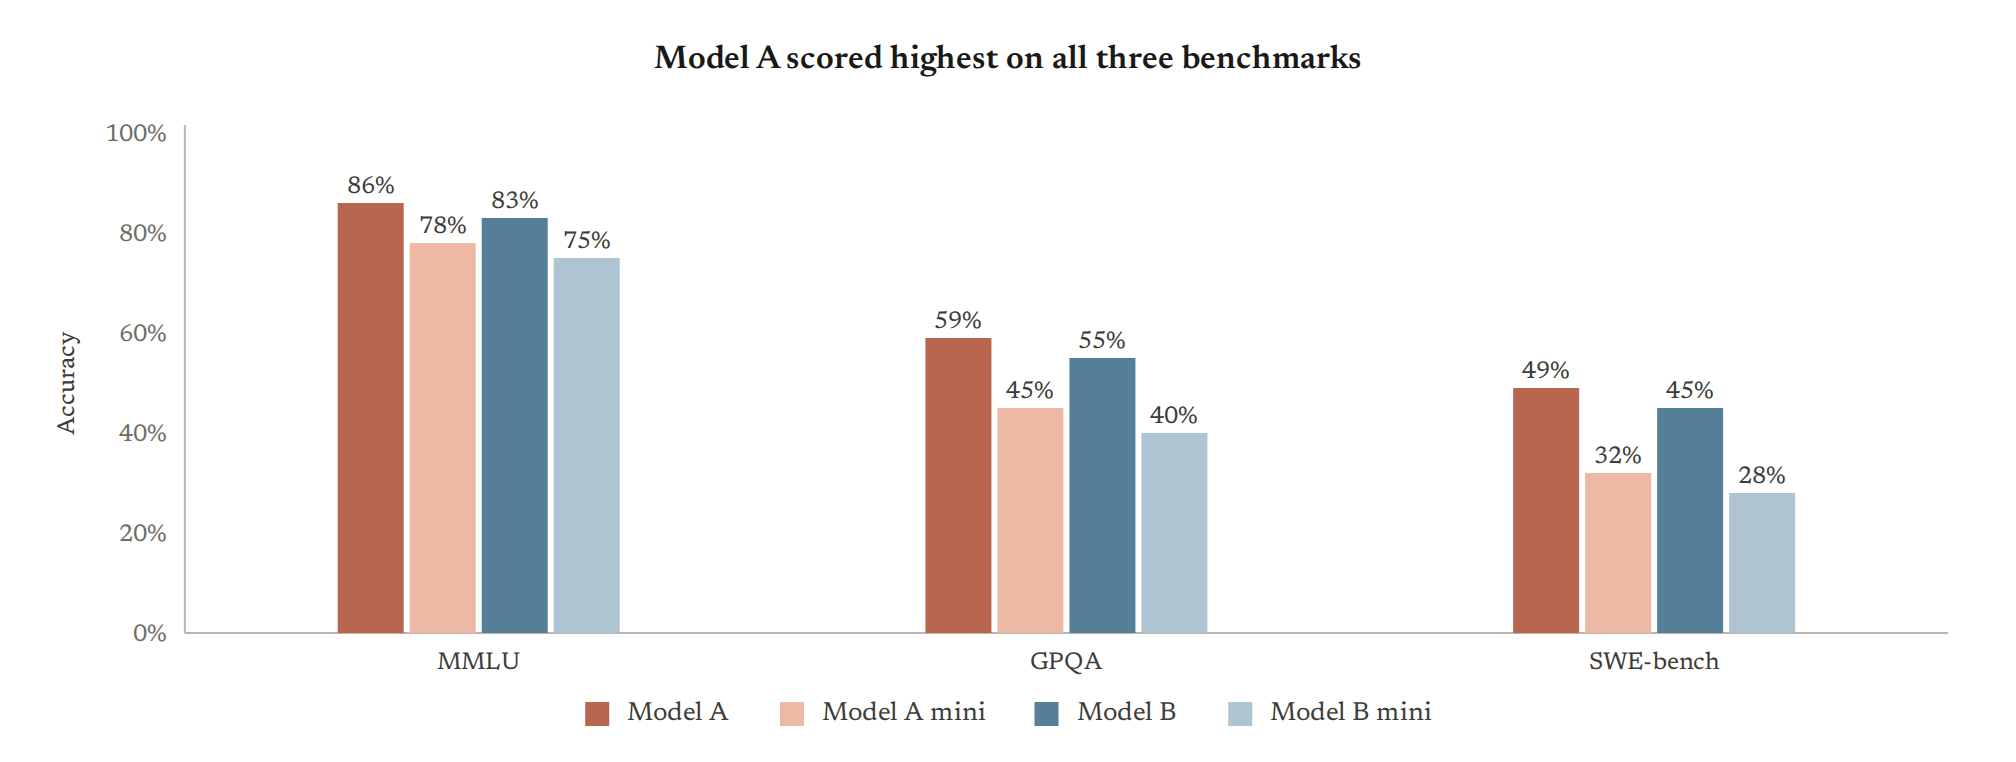
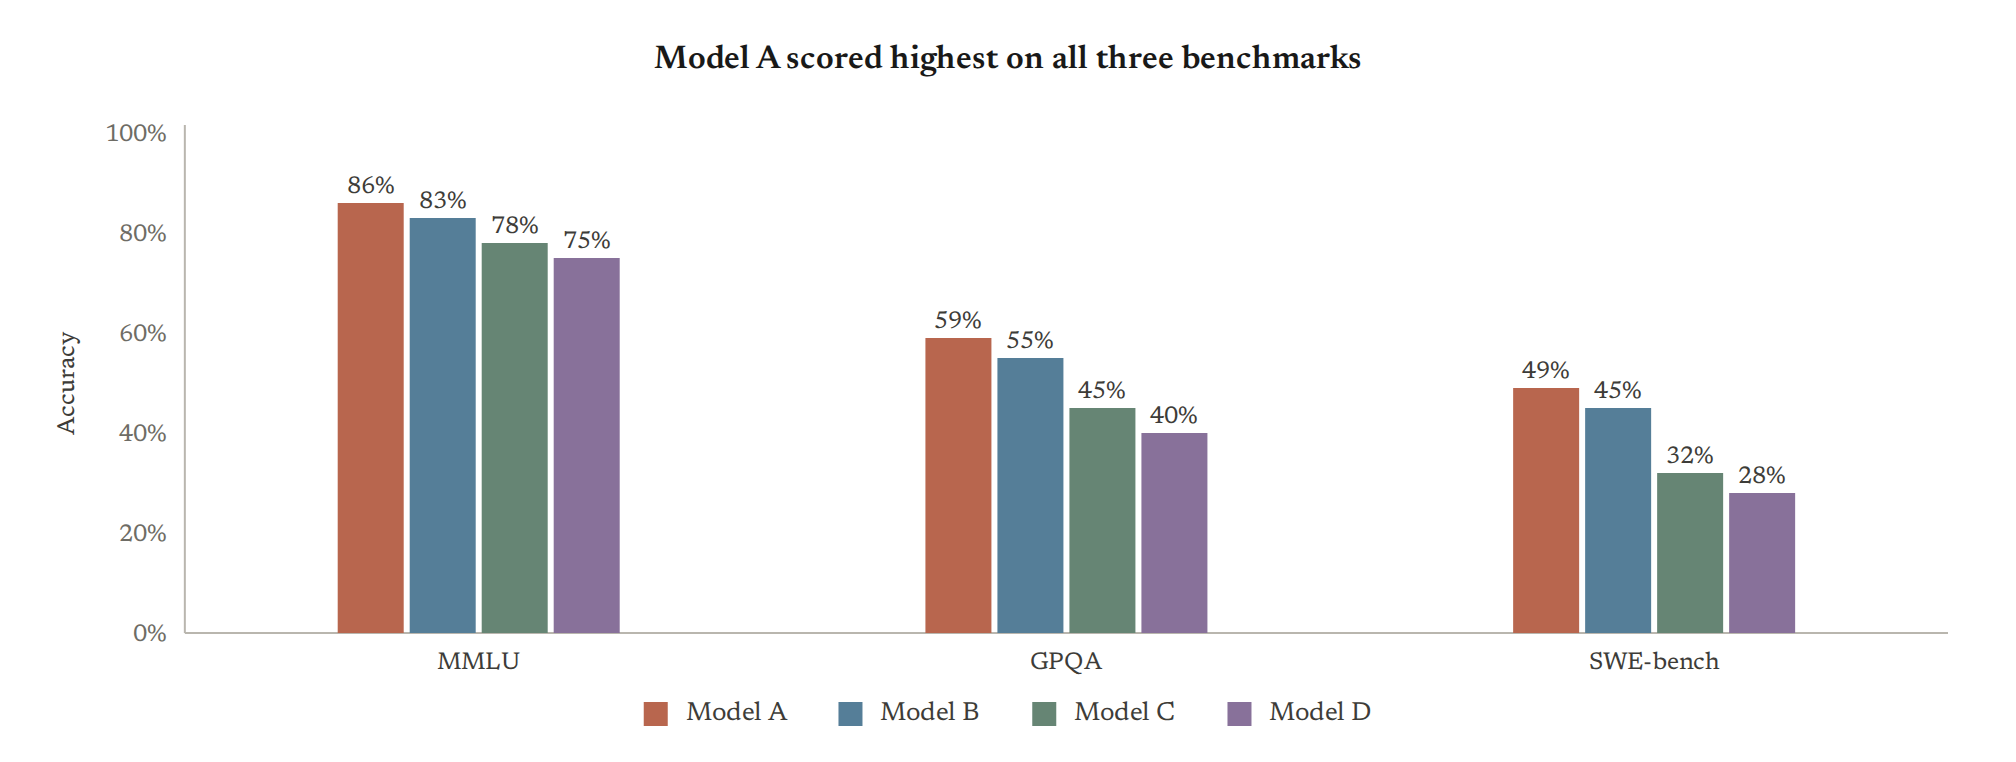
Benchmarks and several-models templates use the palette's four colors

diff --git a/examples/07_line_models.py b/examples/07_line_models.py
@@ -4,12 +4,10 @@ One line per model on one chart, each in its own color and named at its end.
 """
 import viz
 
-# Share of episodes with reward hacking at each RL step, for two model families, large and mini.
-hacking = {"Model A": [2, 8, 15, 21, 26], "Model A mini": [2, 5, 9, 12, 14],
-           "Model B": [3, 10, 19, 27, 33], "Model B mini": [2, 6, 11, 15, 18]}
+# Share of episodes with reward hacking at each RL step, for four models.
+hacking = {"Model A": [2, 8, 15, 21, 26], "Model B": [3, 10, 19, 27, 33],
+           "Model C": [2, 5, 9, 12, 14], "Model D": [2, 6, 11, 15, 18]}
 fig = viz.line(
-    hacking, x=[0, 250, 500, 750, 1000],
-    colors={"Model A": "coral", "Model A mini": "light-coral", "Model B": "blue", "Model B mini": "light-blue"},
-    markers=False, xlabel="RL step", ylabel="Reward hacking",
+    hacking, x=[0, 250, 500, 750, 1000], markers=False, xlabel="RL step", ylabel="Reward hacking",
     title="Model B's reward hacking rose from 3% to 33% during RL")
 fig.save("07_line_models.png")

diff --git a/src/viz/checks.py b/src/viz/checks.py
@@ -203,8 +203,12 @@ def _colors(assigned, name: str, record: bool, named: dict[str, str] | None = No
             out.append(f"\"{l1}\" ({r1}) and \"{l2}\" ({r2}) share one color, so a reader can't tell them apart; "
                        "give them different roles' colors.")
     cols = [c for c in accents if c != "ordered"]
+    palette = {th.color(k).upper() for k in ("coral", "blue", "sage", "plum", "ochre")}  # the five interventions
     for i in range(len(cols)):
         for j in range(i + 1, len(cols)):
+            if cols[i] in palette and cols[j] in palette:
+                continue  # the palette's own pairs (purple near blue and ochre near orange for red-green color
+                # blindness, sage near blue for tritanopia) are a trade-off the guide documents, not a mistake to flag
             d, kind = access.worst_delta_e(cols[i], cols[j])
             if d < MIN_DELTA_E:
                 out.append(f"\"{accents[cols[i]]}\" and \"{accents[cols[j]]}\" look alike with {kind} "

diff --git a/examples/11_bars_benchmarks.py b/examples/11_bars_benchmarks.py
@@ -4,10 +4,9 @@ Several models on a few benchmarks: one bar per model in each group, each model 
 """
 import viz
 
-# Accuracy (%) of two model families, large and mini, on three benchmarks.
-scores = {"MMLU": [86, 78, 83, 75], "GPQA": [59, 45, 55, 40], "SWE-bench": [49, 32, 45, 28]}
+# Accuracy (%) of four models on three benchmarks.
+scores = {"MMLU": [86, 83, 78, 75], "GPQA": [59, 55, 45, 40], "SWE-bench": [49, 45, 32, 28]}
 fig = viz.bars(
-    scores, series=["Model A", "Model A mini", "Model B", "Model B mini"],
-    colors=["coral", "light-coral", "blue", "light-blue"], sort=False, frame="blog", ylabel="Accuracy",
+    scores, series=["Model A", "Model B", "Model C", "Model D"], sort=False, frame="blog", ylabel="Accuracy",
     title="Model A scored highest on all three benchmarks")
 fig.save("11_bars_benchmarks.png")

diff --git a/tests/test_checks.py b/tests/test_checks.py
@@ -54,6 +54,9 @@ def test_too_many_accents_and_confusable_colors():
     assert any("accent colors" in p for p in many)
     redgreen = problems("Two conditions differed", data={"A": 2, "B": 1}, colors=["#D62728", "#2CA02C"])
     assert any("look alike" in p for p in redgreen)
+    palette = problems("Four conditions differed", data={"A": 4, "B": 3, "C": 2, "D": 1},
+                       colors=["coral", "blue", "sage", "plum"])
+    assert not any("look alike" in p for p in palette)  # the palette's own pairs are a documented trade-off
 
 
 def test_a_condition_that_changes_color_between_figures_is_flagged():

diff --git a/tests/test_access.py b/tests/test_access.py
@@ -57,7 +57,7 @@ def test_the_control_and_first_three_interventions_stay_apart():
 
 
 def test_the_fourth_and_fifth_only_near_their_hue_twins():
-    # purple nears blue and ochre nears orange for red-green color-blind readers: the checks warn when they meet
+    # purple nears blue and ochre nears orange for red-green color-blind readers, the palette's documented trade-off
     assert common_vision_distance("plum", "blue") < 10 and common_vision_distance("ochre", "coral") < 10
     for c in ("plum", "ochre"):
         twin = "blue" if c == "plum" else "coral"

diff --git a/examples/README.md b/examples/README.md
@@ -240,13 +240,11 @@ One line per model on one chart, each in its own color and named at its end.
 ```python
 import viz
 
-# Share of episodes with reward hacking at each RL step, for two model families, large and mini.
-hacking = {"Model A": [2, 8, 15, 21, 26], "Model A mini": [2, 5, 9, 12, 14],
-           "Model B": [3, 10, 19, 27, 33], "Model B mini": [2, 6, 11, 15, 18]}
+# Share of episodes with reward hacking at each RL step, for four models.
+hacking = {"Model A": [2, 8, 15, 21, 26], "Model B": [3, 10, 19, 27, 33],
+           "Model C": [2, 5, 9, 12, 14], "Model D": [2, 6, 11, 15, 18]}
 fig = viz.line(
-    hacking, x=[0, 250, 500, 750, 1000],
-    colors={"Model A": "coral", "Model A mini": "light-coral", "Model B": "blue", "Model B mini": "light-blue"},
-    markers=False, xlabel="RL step", ylabel="Reward hacking",
+    hacking, x=[0, 250, 500, 750, 1000], markers=False, xlabel="RL step", ylabel="Reward hacking",
     title="Model B's reward hacking rose from 3% to 33% during RL")
 fig.save("07_line_models.png")
 ```
@@ -337,11 +335,10 @@ Several models on a few benchmarks: one bar per model in each group, each model 
 ```python
 import viz
 
-# Accuracy (%) of two model families, large and mini, on three benchmarks.
-scores = {"MMLU": [86, 78, 83, 75], "GPQA": [59, 45, 55, 40], "SWE-bench": [49, 32, 45, 28]}
+# Accuracy (%) of four models on three benchmarks.
+scores = {"MMLU": [86, 83, 78, 75], "GPQA": [59, 55, 45, 40], "SWE-bench": [49, 45, 32, 28]}
 fig = viz.bars(
-    scores, series=["Model A", "Model A mini", "Model B", "Model B mini"],
-    colors=["coral", "light-coral", "blue", "light-blue"], sort=False, frame="blog", ylabel="Accuracy",
+    scores, series=["Model A", "Model B", "Model C", "Model D"], sort=False, frame="blog", ylabel="Accuracy",
     title="Model A scored highest on all three benchmarks")
 fig.save("11_bars_benchmarks.png")
 ```

diff --git a/docs/guide.md b/docs/guide.md
@@ -128,8 +128,9 @@ format, make a `viz.Size`: a one-column NeurIPS page (5.5 in) is `viz.Size(width
   context, and its value is labeled like every bar's. The control and the first three interventions (orange,
   blue, sage) stay at least 10 CIEDE2000 apart for normal vision and the red-green color blindnesses; blue and
   sage come closer for the rare tritanopia. Purple and ochre are near blue and orange for red-green color-blind
-  readers, so a figure with four or five interventions relies on its labels, and the checks warn when such a pair
-  shares a figure. `tests/test_access.py` holds these numbers. The light grays are context, so values on them are
+  readers, so a figure with four or five interventions relies on its labels (name lines at their ends). That is the
+  palette's one known trade-off, so the checks leave its own pairs alone and flag any other colors color-blind
+  readers can't tell apart. `tests/test_access.py` holds these numbers. The light grays are context, so values on them are
   always labeled.
 - Values are labeled directly, so no reading depends on color alone.
 - Every figure carries alt text with its data. `fig.alt_text()` gives "Search cut wrong answers for all ten models.
